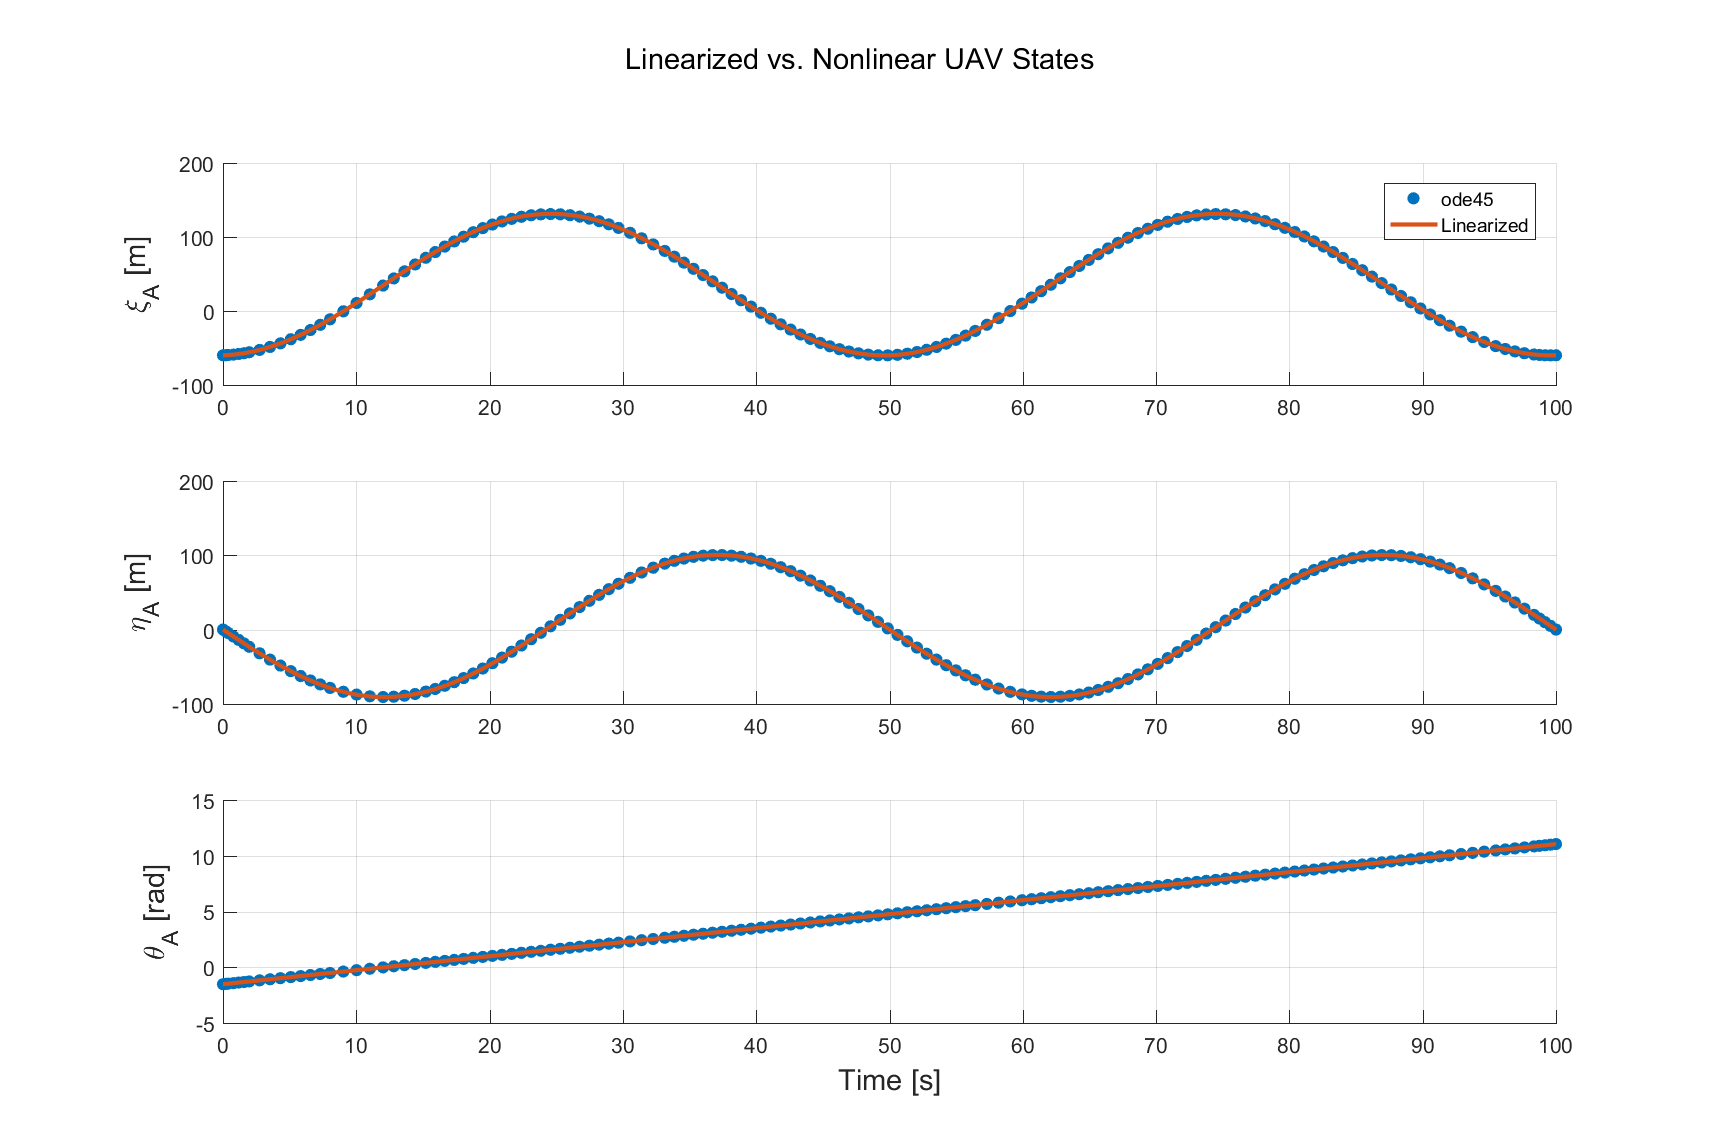
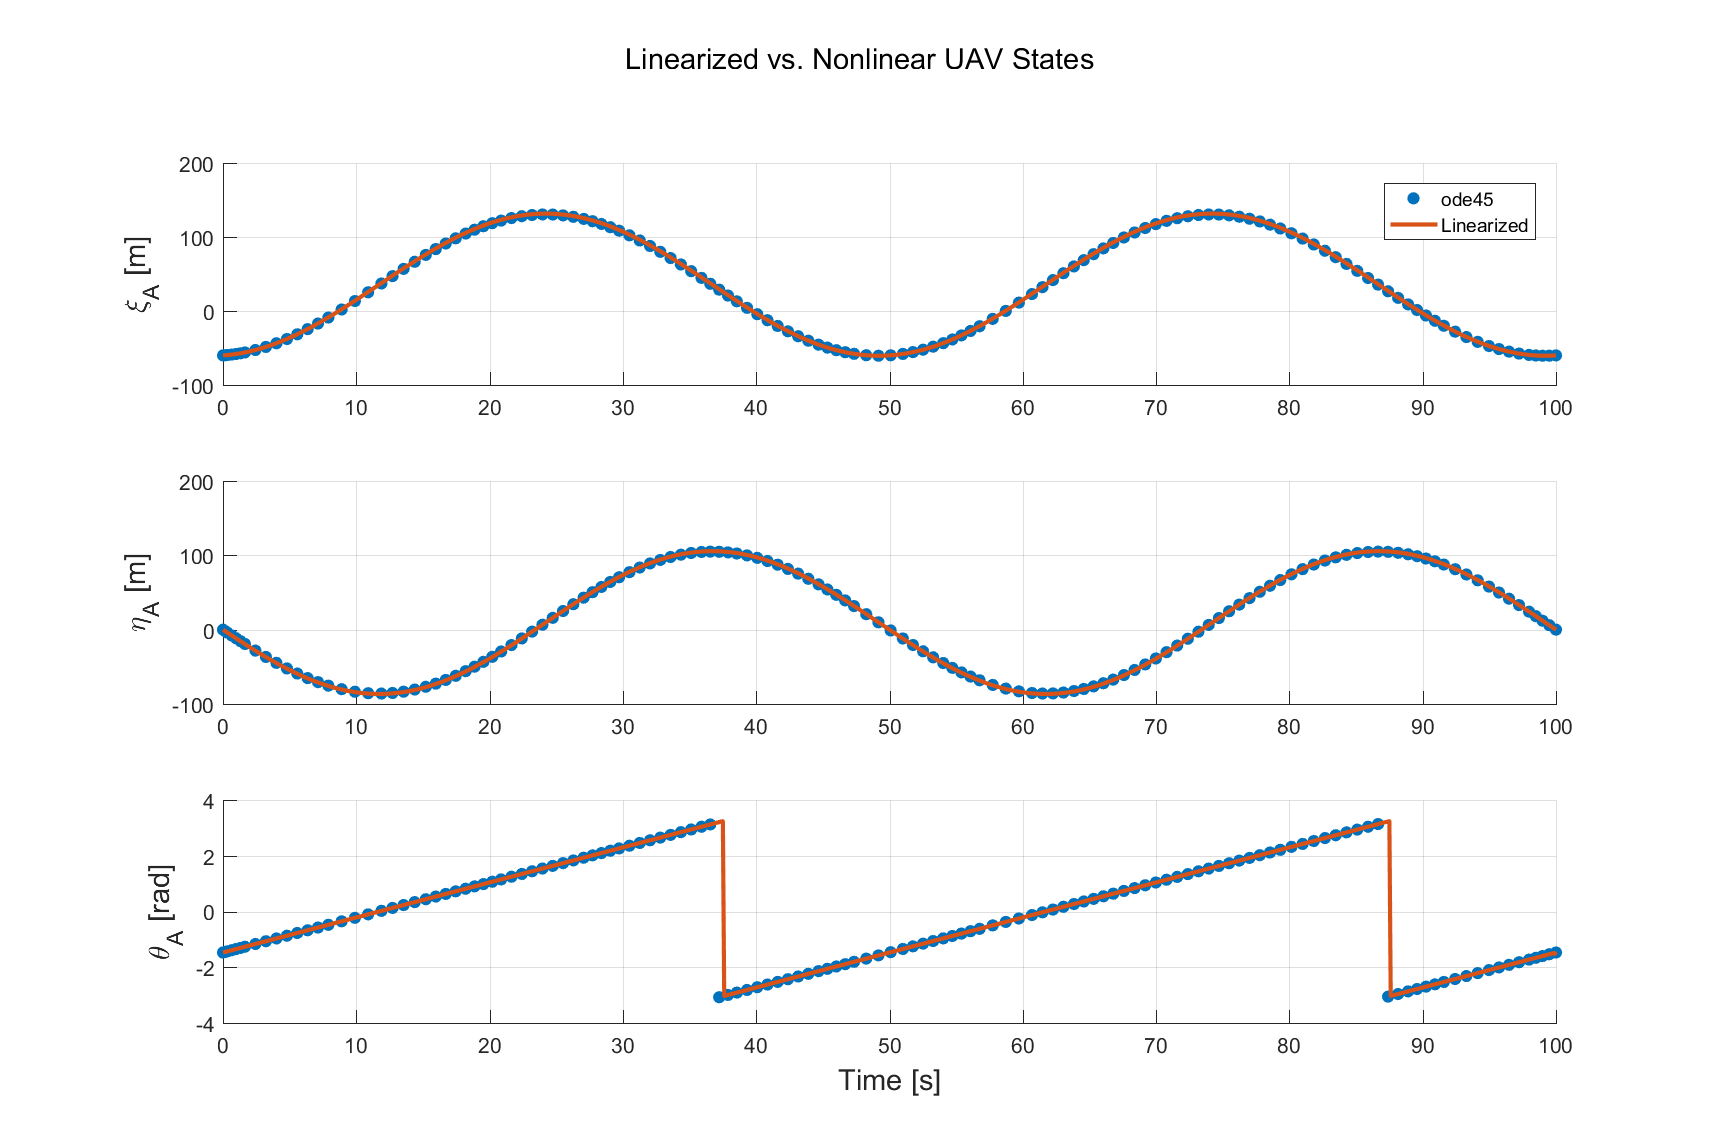
Fixed bugs, now matches reference plots

diff --git a/progress1.m b/progress1.m
@@ -17,28 +17,30 @@ p=5;
 
 xi_g_nom =@(t) (1/(2*tan(pi/18)))*(20*tan(pi/18) + 1 - cos(4*tan(phi_g)*t)); 
 eta_g_nom =@(t) (1/(2*tan(pi/18)))*sin(4*tan(-phi_g)*t);
-theta_g_nom =@(t) pi/2 + 4*tan(phi_g)*t;
+theta_g_nom =@(t) wrapToPi(pi/2 + 4*tan(phi_g)*t);
 xi_a_nom =@(t) (1/pi)*(300 - 60*pi - 300*cos(pi/25*t));
 eta_a_nom =@(t) -(300/pi)*sin(pi/25*t);
-theta_a_nom =@(t) -pi/2 + pi/25*t;
+theta_a_nom =@(t) wrapToPi(-pi/2 + pi/25*t);
 nom_cond =@(t) [xi_g_nom(t); eta_g_nom(t); theta_g_nom(t); xi_a_nom(t); eta_a_nom(t); theta_a_nom(t)];
 perturbation = [0.15,0.15,0.05,0.15,0.15,0.05]; 
-inishcondish = [10,0,pi/2,-60,0,-pi/2];
+%perturbation = [0;1;0; 0;0;0.1]; %Used to compare to TA solution
+inishcondish = [10;0;pi/2;-60;0;-pi/2];
 perturbed_state = inishcondish + perturbation;
 
-meas =@(states) [atan2((states(:,5) - states(:,2)),(states(:,4) - states(:,1)))-states(:,3), ...
-sqrt((states(:,2) - states(:,5)).^2 + (states(:,1) - states(:,4)).^2), ...
-atan2((states(:,2) - states(:,5)),(states(:,1) - states(:,4)))-states(:,6), ...
-states(:,4), ...
-states(:,5)];
+meas =@(states) [wrapToPi(atan2((states(5,:) - states(2,:)),(states(4,:) - states(1,:)))-states(3,:)); ...
+sqrt((states(2,:) - states(5,:)).^2 + (states(1,:) - states(4,:)).^2); ...
+wrapToPi(atan2((states(2,:) - states(5,:)),(states(1,:) - states(4,:)))-states(6,:)); ...
+states(4,:); ...
+states(5,:)];
 
 %% Use ode45 To Predict State
 [t_ode, x_ode] = ode45('odefun2', [0 100], perturbed_state);
-measurements = meas(x_ode(2:end,:));
+measurements = meas(x_ode(2:end,:)');
+x_ode(:,[3 6]) = wrapToPi(x_ode(:,[3 6]));
 
 %% Simulate the Linearized System w/ same perturbation
-A =@(t) [0 0 -2*sin(theta_g_nom(t)) 0 0 0; 0 0 2*cos(theta_g_nom(t)) 0 0 0; ...
-     0 0 0 0 0 0; 0 0 0 0 0 -12*sin(theta_a_nom(t)); 0 0 0 0 0 12*cos(theta_a_nom(t)); ...
+A =@(x) [0 0 -2*sin(x(3)) 0 0 0; 0 0 2*cos(x(3)) 0 0 0; ...
+     0 0 0 0 0 0; 0 0 0 0 0 -12*sin(x(6)); 0 0 0 0 0 12*cos(x(6)); ...
      0 0 0 0 0 0];
  
 B =@(t) [cos(theta_g_nom(t)), 0, 0 ,0;...
@@ -48,9 +50,9 @@ B =@(t) [cos(theta_g_nom(t)), 0, 0 ,0;...
     0,0, sin(theta_a_nom(t)),0;...
     0,0,0,1];
 
-C =@(t) [(eta_a_nom(t) - eta_g_nom(t))/(((eta_g_nom(t) - eta_a_nom(t))^2 + (xi_g_nom(t) - xi_a_nom(t))^2)), (-xi_a_nom(t) + xi_g_nom(t))/(((eta_g_nom(t) - eta_a_nom(t))^2 + (xi_g_nom(t) - xi_a_nom(t))^2)), -1, (-eta_a_nom(t) + eta_g_nom(t))/(((eta_g_nom(t) - eta_a_nom(t))^2 + (xi_g_nom(t) - xi_a_nom(t))^2)), (xi_a_nom(t) - xi_g_nom(t))/(((eta_g_nom(t) - eta_a_nom(t))^2 + (xi_g_nom(t) - xi_a_nom(t))^2)), 0; ...
-    (xi_g_nom(t) - xi_a_nom(t))/sqrt((eta_g_nom(t) - eta_a_nom(t))^2 + (xi_g_nom(t) - xi_a_nom(t))^2), (eta_g_nom(t) - eta_a_nom(t))/sqrt((eta_g_nom(t) - eta_a_nom(t))^2 + (xi_g_nom(t) - xi_a_nom(t))^2), 0, -(xi_g_nom(t) - xi_a_nom(t))/sqrt((eta_g_nom(t) - eta_a_nom(t))^2 + (xi_g_nom(t) - xi_a_nom(t))^2), -(eta_g_nom(t) - eta_a_nom(t))/sqrt((eta_g_nom(t) - eta_a_nom(t))^2 + (xi_g_nom(t) - xi_a_nom(t))^2), 0; ...
-    (eta_a_nom(t) - eta_g_nom(t))/(((eta_g_nom(t) - eta_a_nom(t))^2 + (xi_g_nom(t) - xi_a_nom(t))^2)), (-xi_a_nom(t) + xi_g_nom(t))/(((eta_g_nom(t) - eta_a_nom(t))^2 + (xi_g_nom(t) - xi_a_nom(t))^2)), 0, (-eta_a_nom(t) + eta_g_nom(t))/(((eta_g_nom(t) - eta_a_nom(t))^2 + (xi_g_nom(t) - xi_a_nom(t))^2)), (-xi_a_nom(t) + xi_g_nom(t))/(((eta_g_nom(t) - eta_a_nom(t))^2 + (xi_g_nom(t) - xi_a_nom(t))^2)), -1; ...
+C =@(x) [(x(5) - x(2))/(((x(2) - x(5))^2 + (x(1) - x(4))^2)), (-x(4) + x(1))/(((x(2) - x(5))^2 + (x(1) - x(4))^2)), -1, (-x(5) + x(2))/(((x(2) - x(5))^2 + (x(1) - x(4))^2)), (x(4) - x(1))/(((x(2) - x(5))^2 + (x(1) - x(4))^2)), 0; ...
+    (x(1) - x(4))/sqrt((x(2) - x(5))^2 + (x(1) - x(4))^2), (x(2) - x(5))/sqrt((x(2) - x(5))^2 + (x(1) - x(4))^2), 0, -(x(1) - x(4))/sqrt((x(2) - x(5))^2 + (x(1) - x(4))^2), -(x(2) - x(5))/sqrt((x(2) - x(5))^2 + (x(1) - x(4))^2), 0; ...
+    (x(5) - x(2))/(((x(2) - x(5))^2 + (x(1) - x(4))^2)), (-x(4) + x(1))/(((x(2) - x(5))^2 + (x(1) - x(4))^2)), 0, (-x(5) + x(2))/(((x(2) - x(5))^2 + (x(1) - x(4))^2)), (-x(1) + x(4))/(((x(2) - x(5))^2 + (x(1) - x(4))^2)), -1; ...
     0 0 0 1 0 0; 0 0 0 0 1 0];
 
 Gamma = eye(6);
@@ -63,17 +65,18 @@ du = [0;0;0;0];
 w = zeros(n,len-1); %No noise
 v = zeros(p,len-1); %No noise
 dx(:,1)= perturbation;
+xNom = nom_cond(time);
 
 for k=2:len-1
-    Fk = (eye(6) + dt*A(time(k-1)));
+    Fk = (eye(6) + dt*A(xNom(:,k-1)));
     Gk = dt*B(time(k-1));
     Omegak = dt*Gamma;
     
     dx(:,k) = Fk*dx(:,k-1) + Gk*du + Omegak*w(:,k);
-    dy(:,k) = C(time(k))*dx(:,k)+ v(:,k);
+    dy(:,k) = C(xNom(:,k))*dx(:,k)+ v(:,k);
 end
-x = nom_cond(time)+dx;
-y = meas(nom_cond(time(2:end))')+dy';
+x = xNom+dx;
+y = meas(xNom(:,2:end))+dy;
 
 %% Plot and compare the two formulations
 % UGV States
@@ -145,41 +148,41 @@ figure()
 subplot(5,1,1)
 hold on;
 grid on;
-plot(t_ode(2:end),measurements(:,1),'.','Markersize',20);
-plot(time(2:end),y(:,1),'linewidth',2);
+plot(t_ode(2:end),measurements(1,:),'.','Markersize',20);
+plot(time(2:end),y(1,:),'linewidth',2);
 %xlabel('Time [s]');
-ylabel('y_1 [rad]');
+ylabel('\gamma_{ag} [rad]');
 legend('ode45', 'Linearized')
 
 subplot(5,1,2)
 hold on;
 grid on;
-plot(t_ode(2:end),measurements(:,2),'.','Markersize',20);
-plot(time(2:end),y(:,2),'linewidth',2);
+plot(t_ode(2:end),measurements(2,:),'.','Markersize',20);
+plot(time(2:end),y(2,:),'linewidth',2);
 %xlabel('Time [s]');
-ylabel('y_2 [m]');
+ylabel('\rho_{ga} [m]');
 
 subplot(5,1,3)
 hold on;
 grid on;
-plot(t_ode(2:end),measurements(:,3),'.','Markersize',20);
-plot(time(2:end),y(:,3),'linewidth',2);
+plot(t_ode(2:end),measurements(3,:),'.','Markersize',20);
+plot(time(2:end),y(3,:),'linewidth',2);
 %xlabel('Time [s]');
-ylabel('y_3 [rad]');
+ylabel('\gamma_{ga} [rad]');
 
 subplot(5,1,4)
 hold on;
 grid on;
-plot(t_ode(2:end),measurements(:,4),'.','Markersize',20);
-plot(time(2:end),y(:,4),'linewidth',2);
+plot(t_ode(2:end),measurements(4,:),'.','Markersize',20);
+plot(time(2:end),y(4,:),'linewidth',2);
 %xlabel('Time [s]');
 ylabel('\xi_A [m]');
 
 subplot(5,1,5)
 hold on;
 grid on;
-plot(t_ode(2:end),measurements(:,5),'.','Markersize',20);
-plot(time(2:end),y(:,5),'linewidth',2);
+plot(t_ode(2:end),measurements(5,:),'.','Markersize',20);
+plot(time(2:end),y(5,:),'linewidth',2);
 xlabel('Time [s]');
 ylabel('\eta_A [m]');
 
